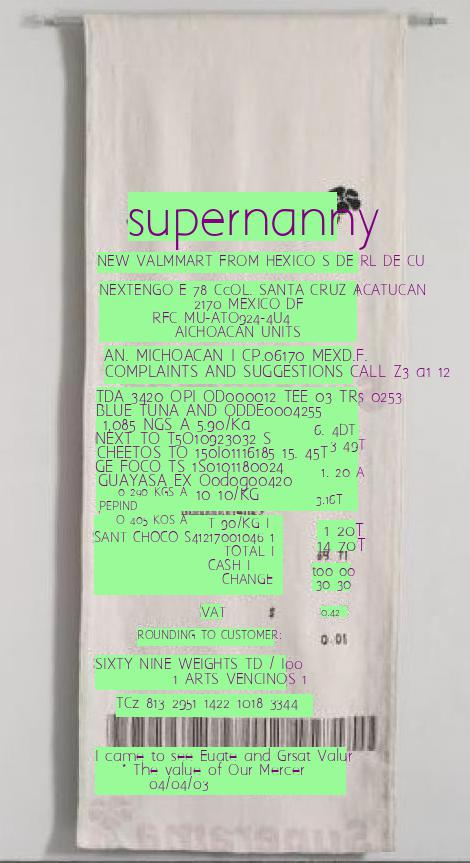
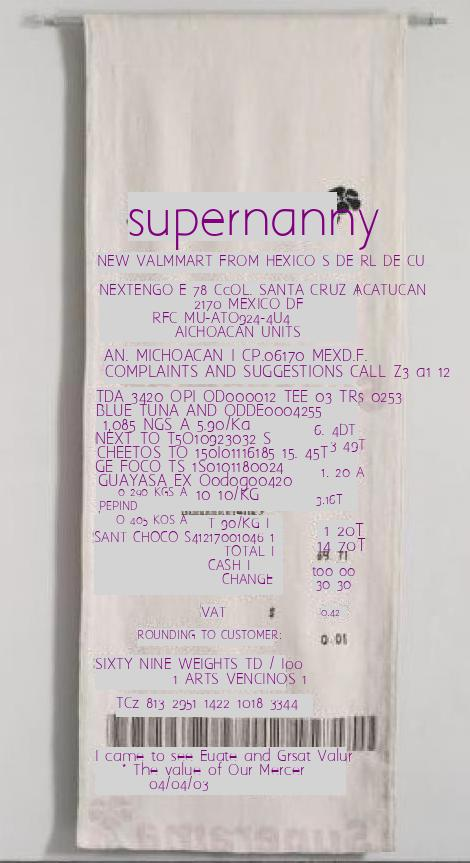
test results

Changed region(s): [[0.1787, 0.2109, 0.7745, 0.934]]

diff --git a/utils/image_utils.py b/utils/image_utils.py
@@ -37,7 +37,7 @@ def overlay_image_as_paragraphs(image_path, para_details):
     # first draw the paragraph rectangles (to avoid overlaps)
     for para in para_details:
         x0, y0, x1, y1, x2, y2, x3, y3 = get_bbox(para)
-        draw.rectangle([(x0, y0), (x2, y2)], fill='palegreen')
+        draw.rectangle([(x0, y0), (x2, y2)], fill='lightgrey')
 
     # write the text on each of the rectangles
     for para in para_details:
